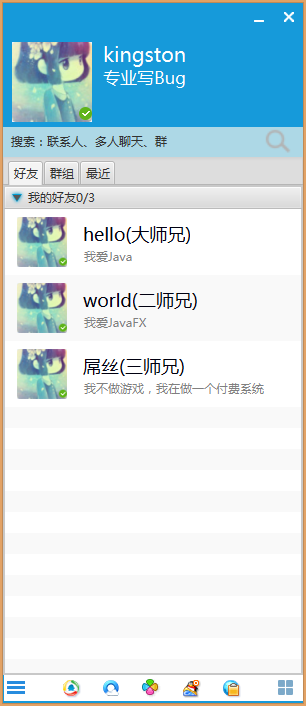
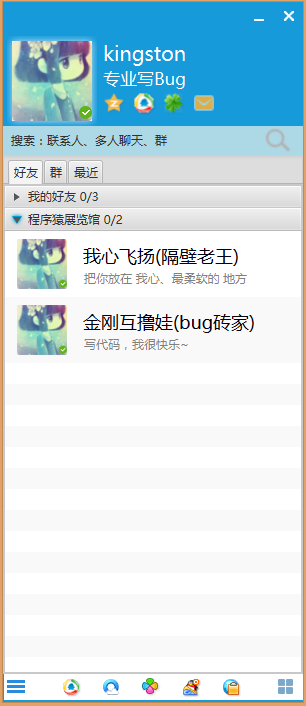
好友列表显示分组情况

diff --git a/src/main/java/com/kingston/logic/friend/FriendManager.java b/src/main/java/com/kingston/logic/friend/FriendManager.java
@@ -1,8 +1,10 @@
 package com.kingston.logic.friend;
 
+import java.util.ArrayList;
 import java.util.HashMap;
 import java.util.List;
 import java.util.Map;
+import java.util.TreeMap;
 
 import com.kingston.base.ClientBaseService;
 import com.kingston.logic.friend.vo.FriendItemVo;
@@ -22,22 +24,30 @@ import javafx.stage.Stage;
 public class FriendManager {
 
 	private static FriendManager instance = new FriendManager();
-	
+
 	private Map<Long, FriendItemVo> friends = new HashMap<>();
+
+	private Map<Integer, String> groupNames = new HashMap<>();
+	/** 分组好友视图 */
+	private TreeMap<Integer, List<FriendItemVo>> groupFriends = new TreeMap<>();
 
 	public static FriendManager getInstance() {
 		return instance;
 	}
-	
+
 	public void receiveFriendsList(List<FriendItemVo> friendItems) {
 		friends.clear();
 		for (FriendItemVo item:friendItems) {
 			friends.put(item.getUserId(), item);
 		}
-		
-		refreshMyFriendsView(friendItems);
+		rangeToGroupFriends(friendItems);
+
+		ClientBaseService.INSTANCE.runTaskInFxThread(() -> {
+			refreshMyFriendsView(friendItems);
+		});
+
 	}
-	
+
 	public FriendItemVo queryFriend(long friendId) {
 		return this.friends.get(friendId);
 	}
@@ -47,18 +57,48 @@ public class FriendManager {
 		Stage stage = stageController.getStageBy(R.id.MainView);
 		ScrollPane scrollPane = (ScrollPane)stage.getScene().getRoot().lookup("#friendSp");
 		Accordion friendGroup = (Accordion)scrollPane.getContent();
+		friendGroup.getPanes().clear();
 
+		for (Map.Entry<Integer, List<FriendItemVo>> entry:groupFriends.entrySet()) {
+			int groupId = entry.getKey();
+			String groupName = this.groupNames.get(groupId);
+			decorateFriendGroup(friendGroup, groupName, entry.getValue());
+		}
+	}
+
+	/**
+	 * 调整成好友分组结构
+	 */
+	private void rangeToGroupFriends(List<FriendItemVo> friendItems) {
+		this.groupFriends.clear();
+		TreeMap<Integer, List<FriendItemVo>> groupFriends = new TreeMap<>();
+		for (FriendItemVo item:friendItems) {
+			int groupId= item.getGroup();
+			List<FriendItemVo> frendsByGroup = groupFriends.get(groupId);
+			if (frendsByGroup == null) {
+				frendsByGroup = new ArrayList<>();
+				groupFriends.put(groupId, frendsByGroup);
+			}
+			this.groupNames.put(groupId, item.getGroupName());
+			frendsByGroup.add(item);
+		}
+		this.groupFriends = groupFriends;
+	}
+
+
+	private void decorateFriendGroup(Accordion container, String groupName, List<FriendItemVo> friendItems) {
 		ListView<Node> listView = new ListView<Node>();
 		int onlineCount = 0;
+		StageController stageController = ClientBaseService.INSTANCE.getStageController();
 		for (FriendItemVo item:friendItems) {
 			Pane pane = stageController.load(R.layout.FriendItem, Pane.class);
 			decorateFriendItem(pane, item);
 			listView.getItems().add(pane);
 		}
 
-		final TitledPane tp = new TitledPane("我的好友0/"+friendItems.size(), listView);
-		friendGroup.getPanes().clear();
-		friendGroup.getPanes().add(tp);
+		String groupInfo = groupName + " " + onlineCount+"/"+friendItems.size();
+		TitledPane tp = new TitledPane(groupInfo, listView);
+		container.getPanes().add(tp);
 	}
 
 	private void decorateFriendItem(Pane itemUi, FriendItemVo friendVo) {

diff --git a/src/main/java/com/kingston/logic/friend/vo/FriendItemVo.java b/src/main/java/com/kingston/logic/friend/vo/FriendItemVo.java
@@ -19,6 +19,8 @@ public class FriendItemVo extends ByteBufBean {
 	private byte sex;
 	/** 所属好友分组 */
 	private int group;
+	/** 分组备注 */
+	private String groupName;
 
 	public long getUserId() {
 		return userId;
@@ -56,6 +58,12 @@ public class FriendItemVo extends ByteBufBean {
 	public void setGroup(int group) {
 		this.group = group;
 	}
+	public String getGroupName() {
+		return groupName;
+	}
+	public void setGroupName(String groupName) {
+		this.groupName = groupName;
+	}
 
 	public String getFullName() {
 		if (StringUtils.isEmpty(signature)) {
@@ -72,6 +80,7 @@ public class FriendItemVo extends ByteBufBean {
 		writeUTF8(buf, signature);
 		buf.writeByte(sex);
 		buf.writeInt(group);
+		writeUTF8(buf, groupName);
 	}
 
 	@Override
@@ -82,12 +91,13 @@ public class FriendItemVo extends ByteBufBean {
 		this.signature = readUTF8(buf);
 		this.sex = buf.readByte();
 		this.group = buf.readInt();
+		this.groupName = readUTF8(buf);
 	}
 
 	@Override
 	public String toString() {
-		return "FriendItemVo [userId=" + userId + ", userName=" + userName + ", remarks=" + remark + ", signature="
-				+ signature + ", sex=" + sex + ", group=" + group + "]";
+		return "FriendItemVo [userId=" + userId + ", userName=" + userName + ", remark=" + remark + ", signature="
+				+ signature + ", sex=" + sex + ", group=" + group + ", groupName=" + groupName + "]";
 	}
 
 }

diff --git a/src/main/java/com/kingston/ClientStartup.java b/src/main/java/com/kingston/ClientStartup.java
@@ -11,7 +11,6 @@ import com.kingston.ui.StageController;
 import javafx.application.Application;
 import javafx.stage.Stage;
 import javafx.stage.StageStyle;
-import javafx.stage.Screen;
 
 public class ClientStartup extends Application {
 
@@ -31,16 +30,16 @@ public class ClientStartup extends Application {
 		Stage loginStage = stageController.loadStage(R.id.LoginView, R.layout.LoginView,
 								StageStyle.UNDECORATED);
 		loginStage.setTitle("QQ");
-		
+
 		stageController.loadStage(R.id.RegisterView, R.layout.RegisterView, StageStyle.UNDECORATED);
 		Stage mainStage = stageController.loadStage(R.id.MainView, R.layout.MainView);
-		
+
 //		Screen screen = Screen.getPrimary();
 //		double rightTopX = screen.getVisualBounds().getWidth()*0.75;
 //		double rightTopY = screen.getVisualBounds().getHeight()*0.2;
 //		mainStage.setX(rightTopX);
 //		mainStage.setY(rightTopY);
-		
+
 		//显示MainView舞台
 		stageController.setStage(R.id.LoginView);
 	}

diff --git a/src/main/java/com/kingston/logic/user/UserManager.java b/src/main/java/com/kingston/logic/user/UserManager.java
@@ -16,7 +16,7 @@ public class UserManager {
 
 	private static UserManager instance = new UserManager();
 
-	private MyProfile profile = new MyProfile();
+	private ProfileModel profile = new ProfileModel();
 
 	public static UserManager getInstance() {
 		return instance;
@@ -37,7 +37,7 @@ public class UserManager {
 		signatureUi.setText(userInfo.getSignature());
 	}
 
-	public MyProfile getMyProfile() {
+	public ProfileModel getMyProfile() {
 		return this.profile;
 	}
 

diff --git a/src/main/java/com/kingston/logic/user/ProfileModel.java b/src/main/java/com/kingston/logic/user/ProfileModel.java
@@ -1,6 +1,10 @@
 package com.kingston.logic.user;
 
-public class MyProfile {
+/**
+ * 用户个人信息
+ * @author kingston
+ */
+public class ProfileModel {
 
 	private long userId;
 	/** 账号昵称 */
